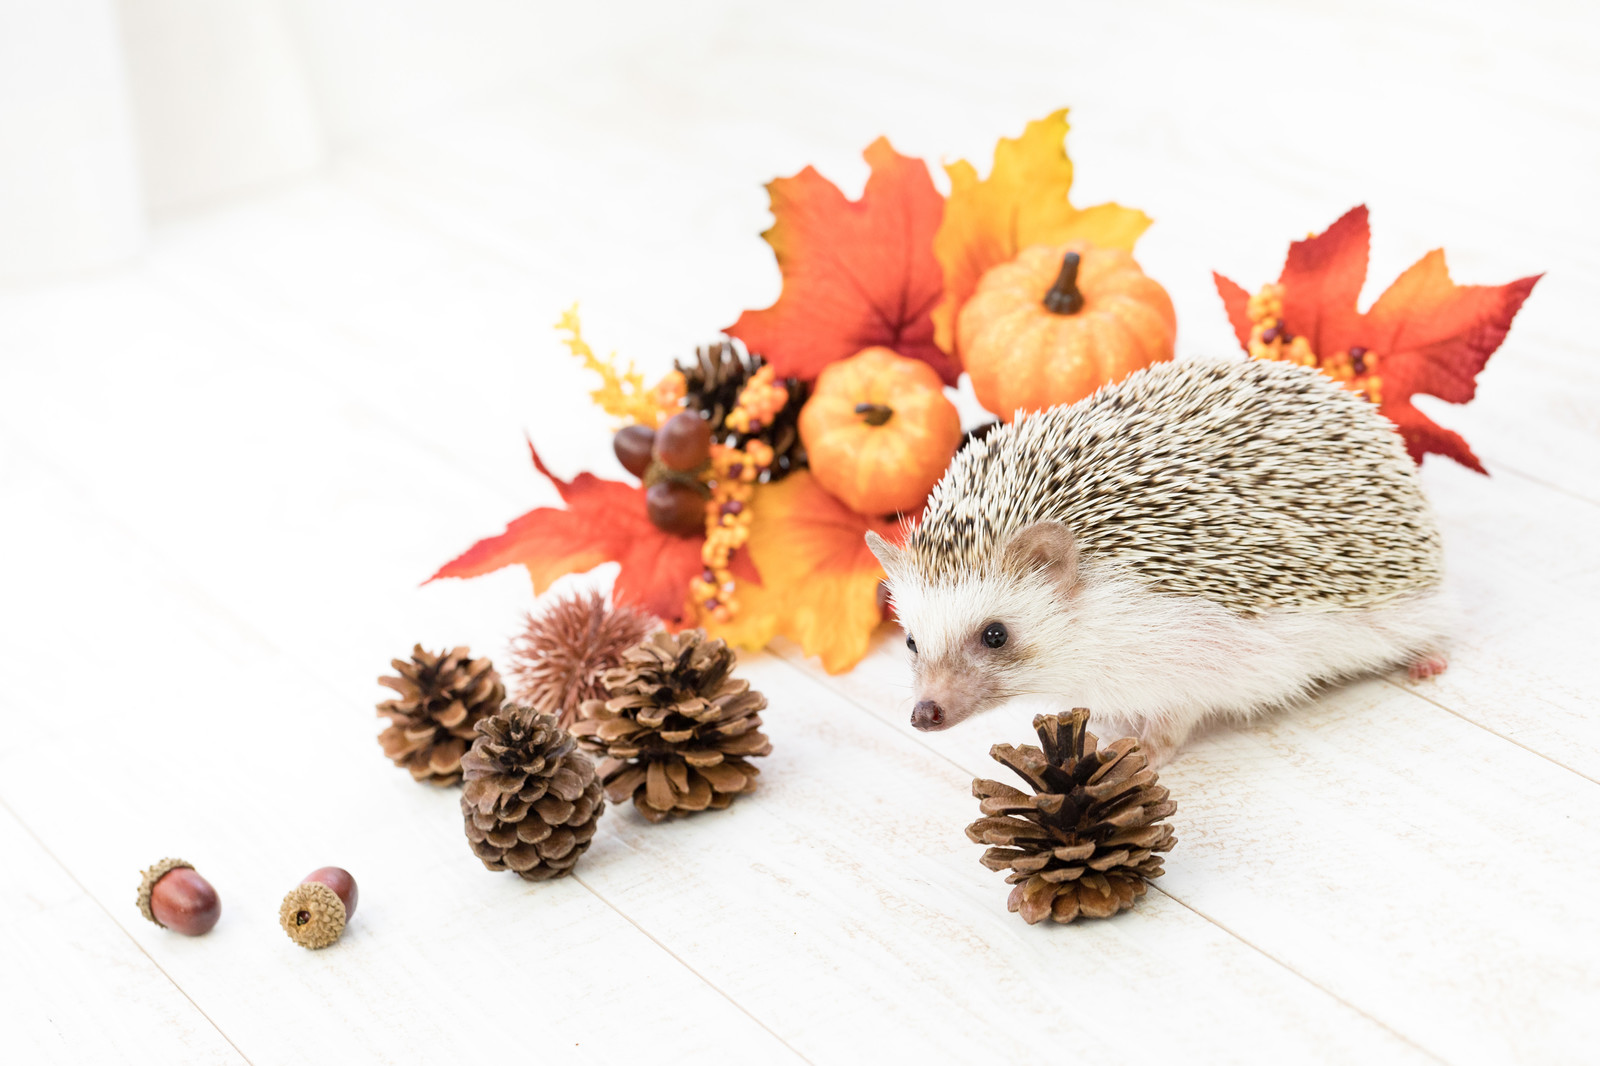
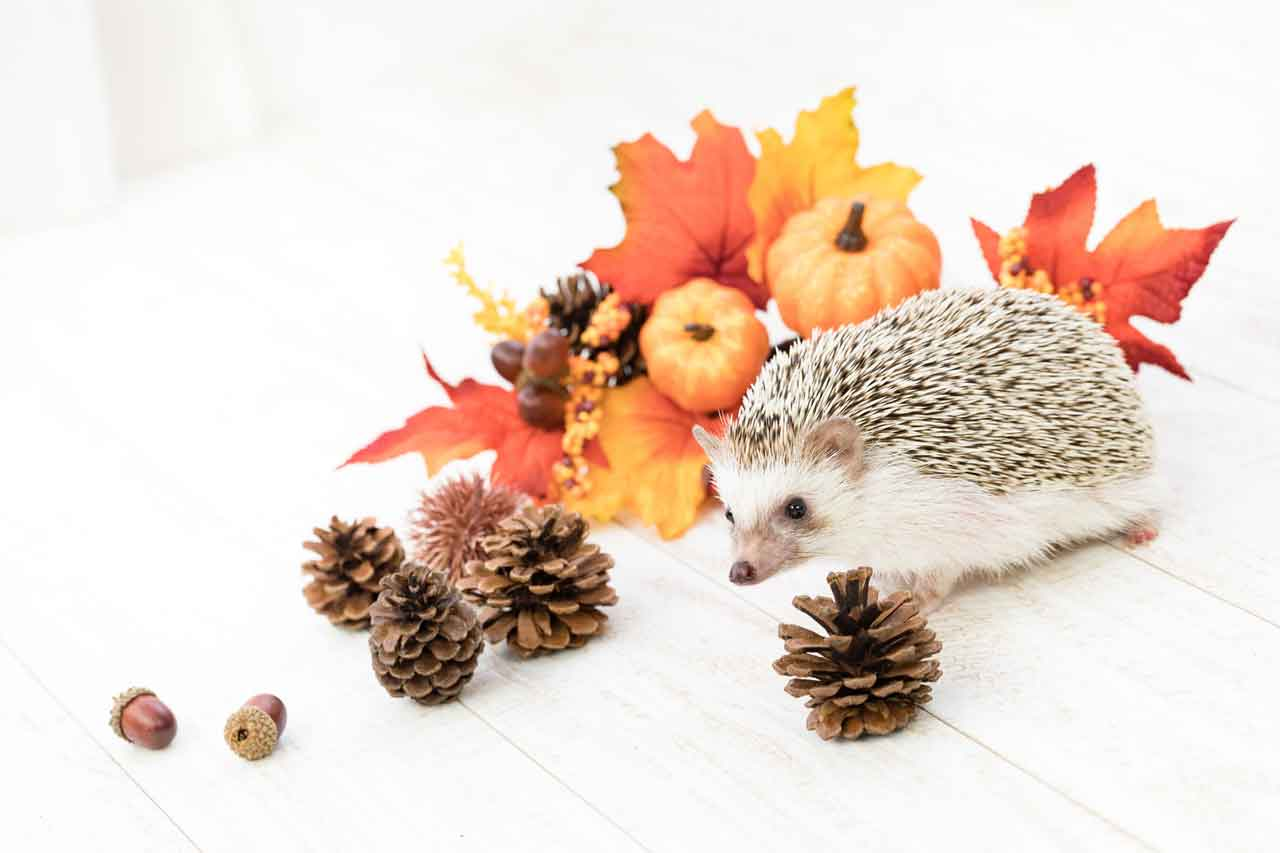
[mod][fix] icludesファイル名の修正。画像のサイズダウン。JSをリサイズ対応。

diff --git a/scripts/main.babel.js b/scripts/main.babel.js
@@ -1,20 +1,37 @@
-const isMobile = window.innerWidth <= 600;
-
+var currentWidth = window.innerWidth;
+let isMobile = window.innerWidth <= 600;
 const $navLink = $('.l-header__inner__siteNav__list__item a');
+const $navLinkMobile = $('.l-header-mobile__opened__nav__item a');
 const contentsArr = [];
-smoothScroll($navLink);
 
-if (!isMobile) {
-	console.log('isNotMobile');
-	calcContentsPosition($navLink, contentsArr);
-	$(window).on('load scroll', function() {
-	  currentCheck($navLink, contentsArr);
-	});
-	openSmallWindow();
-	changeLanguage();
-} else {
-	openMenu();
+run(isMobile, $navLink, $navLinkMobile, contentsArr);
+
+window.addEventListener("resize", function() {
+  if (currentWidth == window.innerWidth) {
+      return;
+  }
+  currentWidth = window.innerWidth;
+  isMobile = window.innerWidth <= 600;
+  run(isMobile, $navLink, $navLinkMobile, contentsArr);
+});
+
+function run(isMobile, $navLink, $navLinkMobile, contentsArr) {
+	if (!isMobile) {
+		calcContentsPosition($navLink, contentsArr);
+		$(window).on('load scroll', function() {
+		  currentCheck($navLink, contentsArr);
+		});
+		openSmallWindow();
+		changeLanguage();
+		smoothScroll($navLink, isMobile);
+	} else {
+		openMenu();
+		smoothScroll($navLinkMobile, isMobile);
+	}
 }
+
+
+
 
 function calcContentsPosition($navLink, contentsArr) {
 	for (let i= 0; i< $navLink.length; i++) {
@@ -42,10 +59,12 @@ function currentCheck($navLink, contentsArr) {
 	}
 }
 
-function smoothScroll($navLink) {
+function smoothScroll($navLink, isMobile) {
+	let headerHeight;
+	isMobile ?  headerHeight = 0 : headerHeight = 49;
 	$navLink.click(function() {
     $('html,body').animate({
-      scrollTop: $($(this).attr('href')).offset().top - 49
+      scrollTop: $($(this).attr('href')).offset().top - headerHeight
     }, 300);
     return false;
  	});

diff --git a/styles/layouts/_header.scss b/styles/layouts/_header.scss
@@ -133,12 +133,12 @@
 		}
 		&__share {
 			position: absolute;
-			bottom: 30px;
+			bottom: 80px;
 			right: 24px;
 			display: flex;
 			&__item {
-				font-size: 28px;
-				margin-left: 16px;
+				font-size: 30px;
+				margin-left: 26px;
 			}
 		}
 	}
